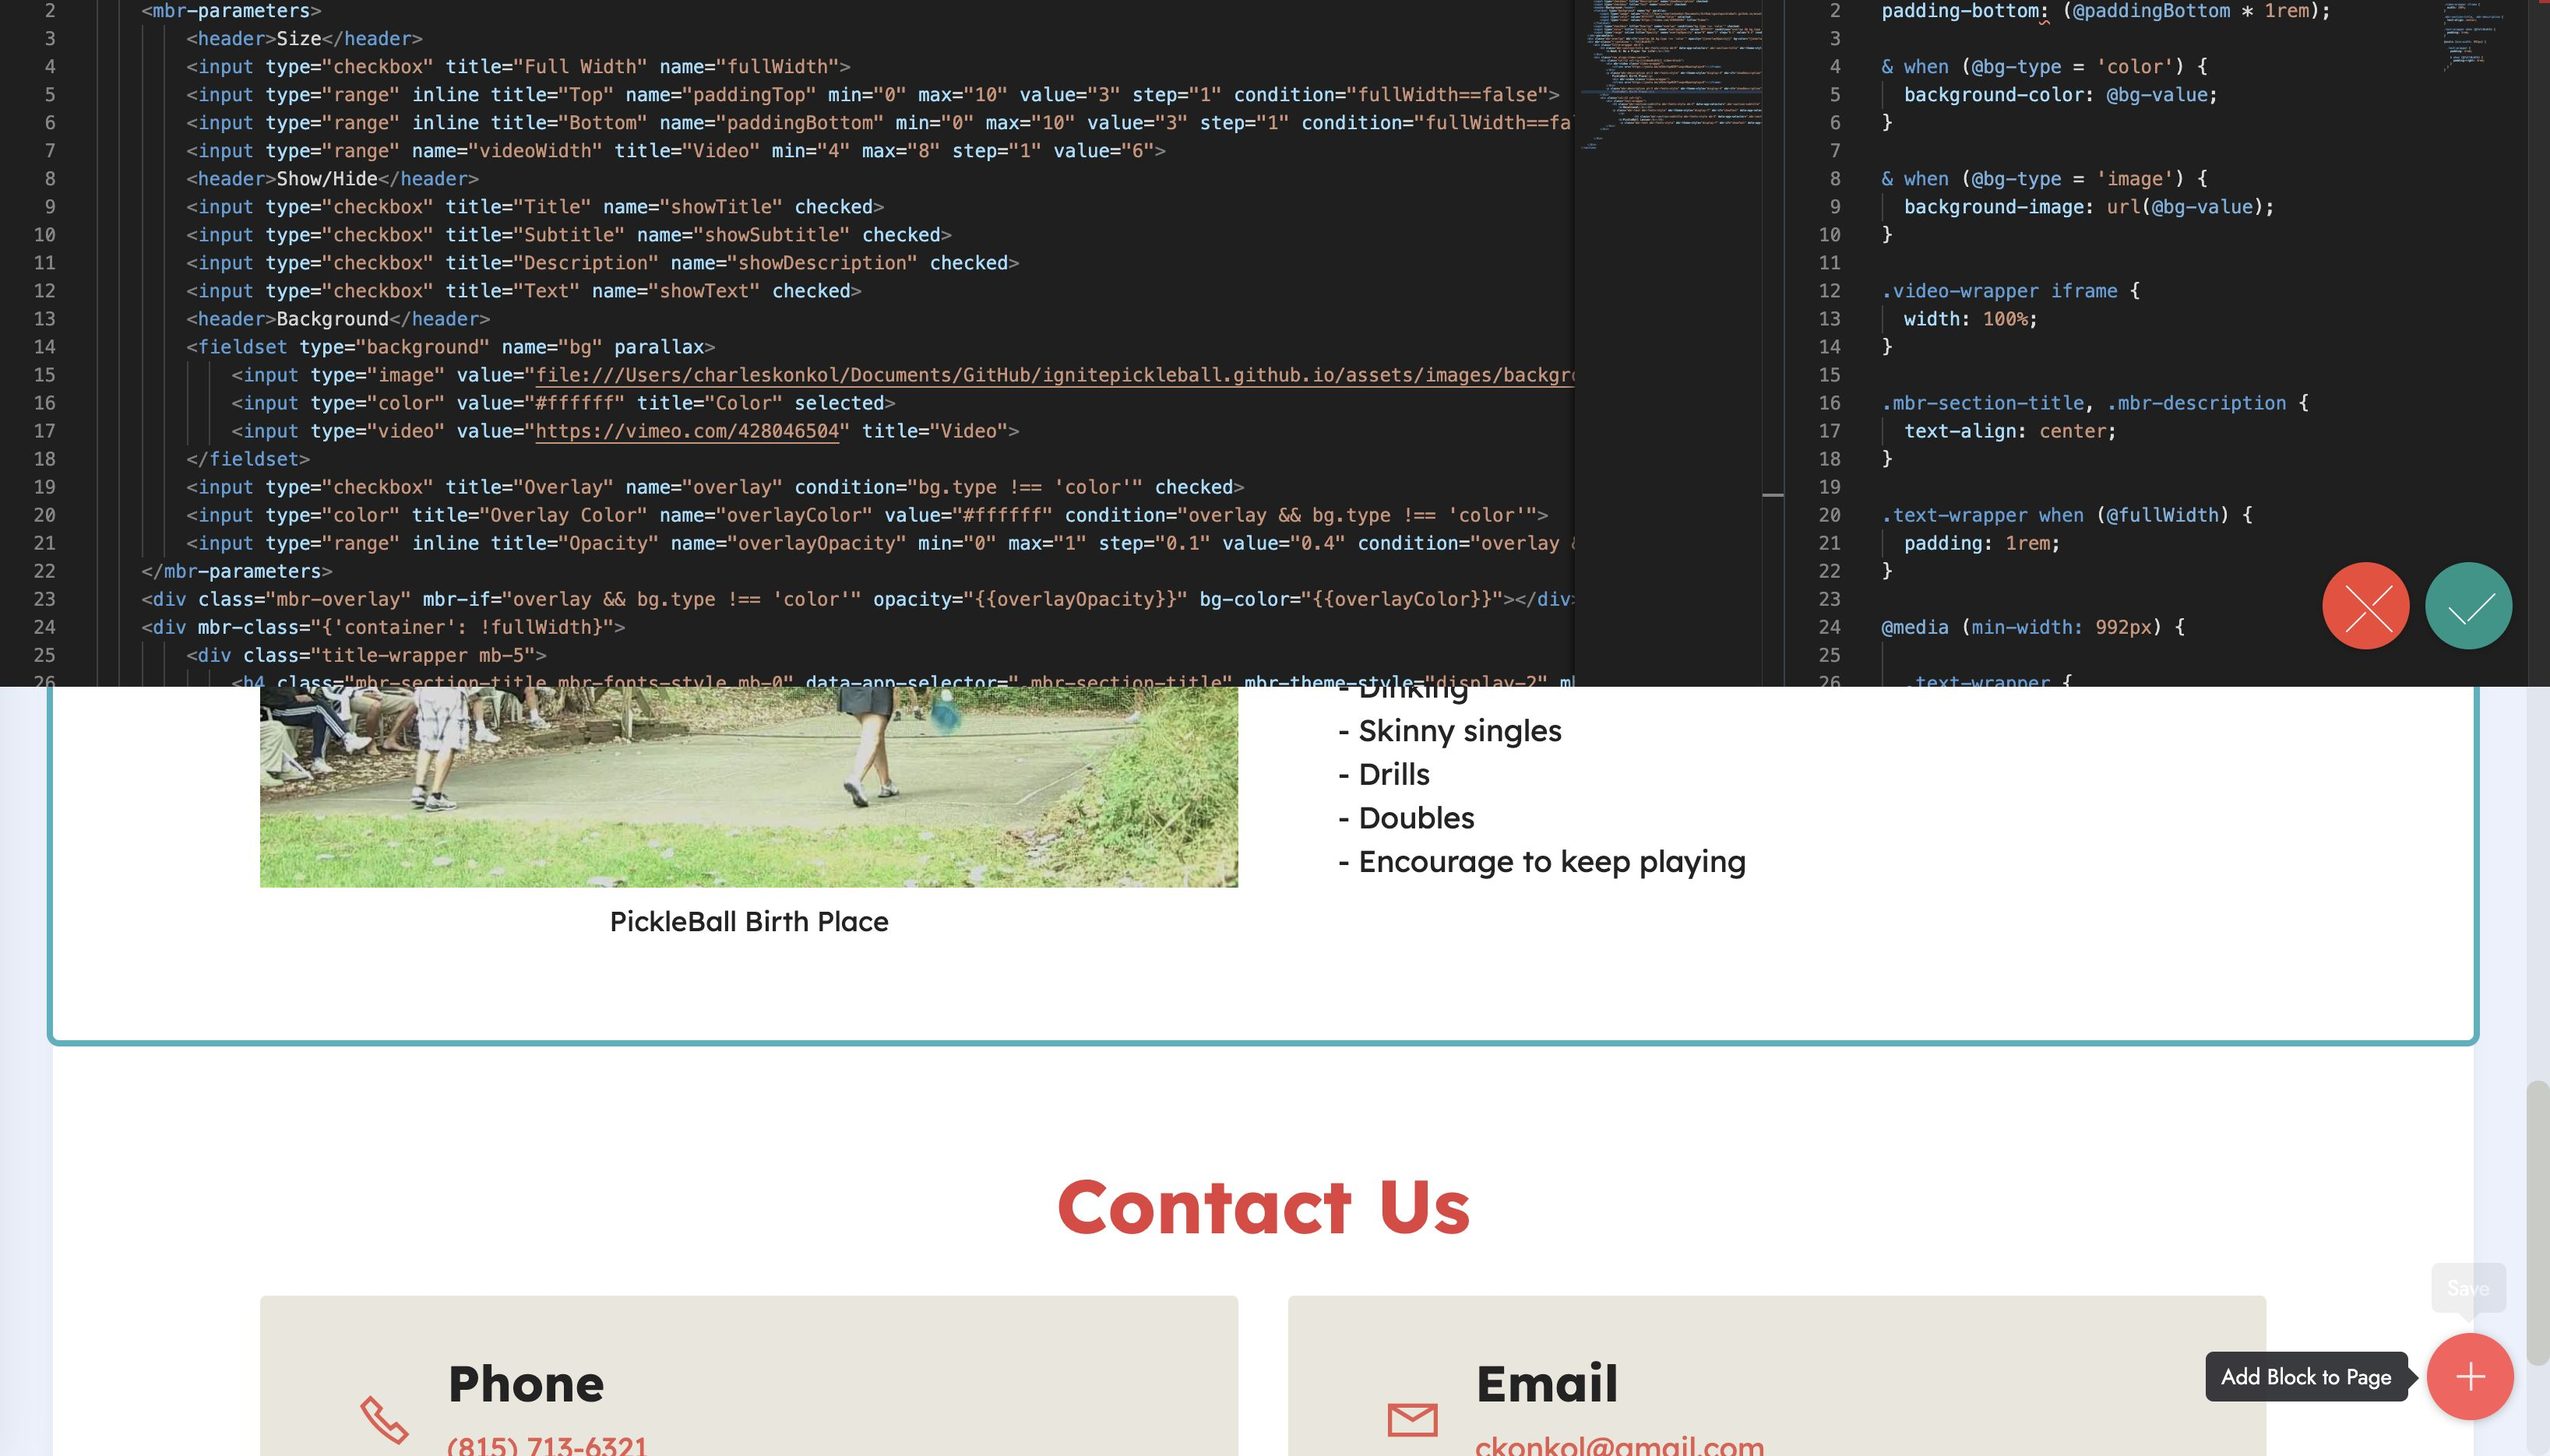
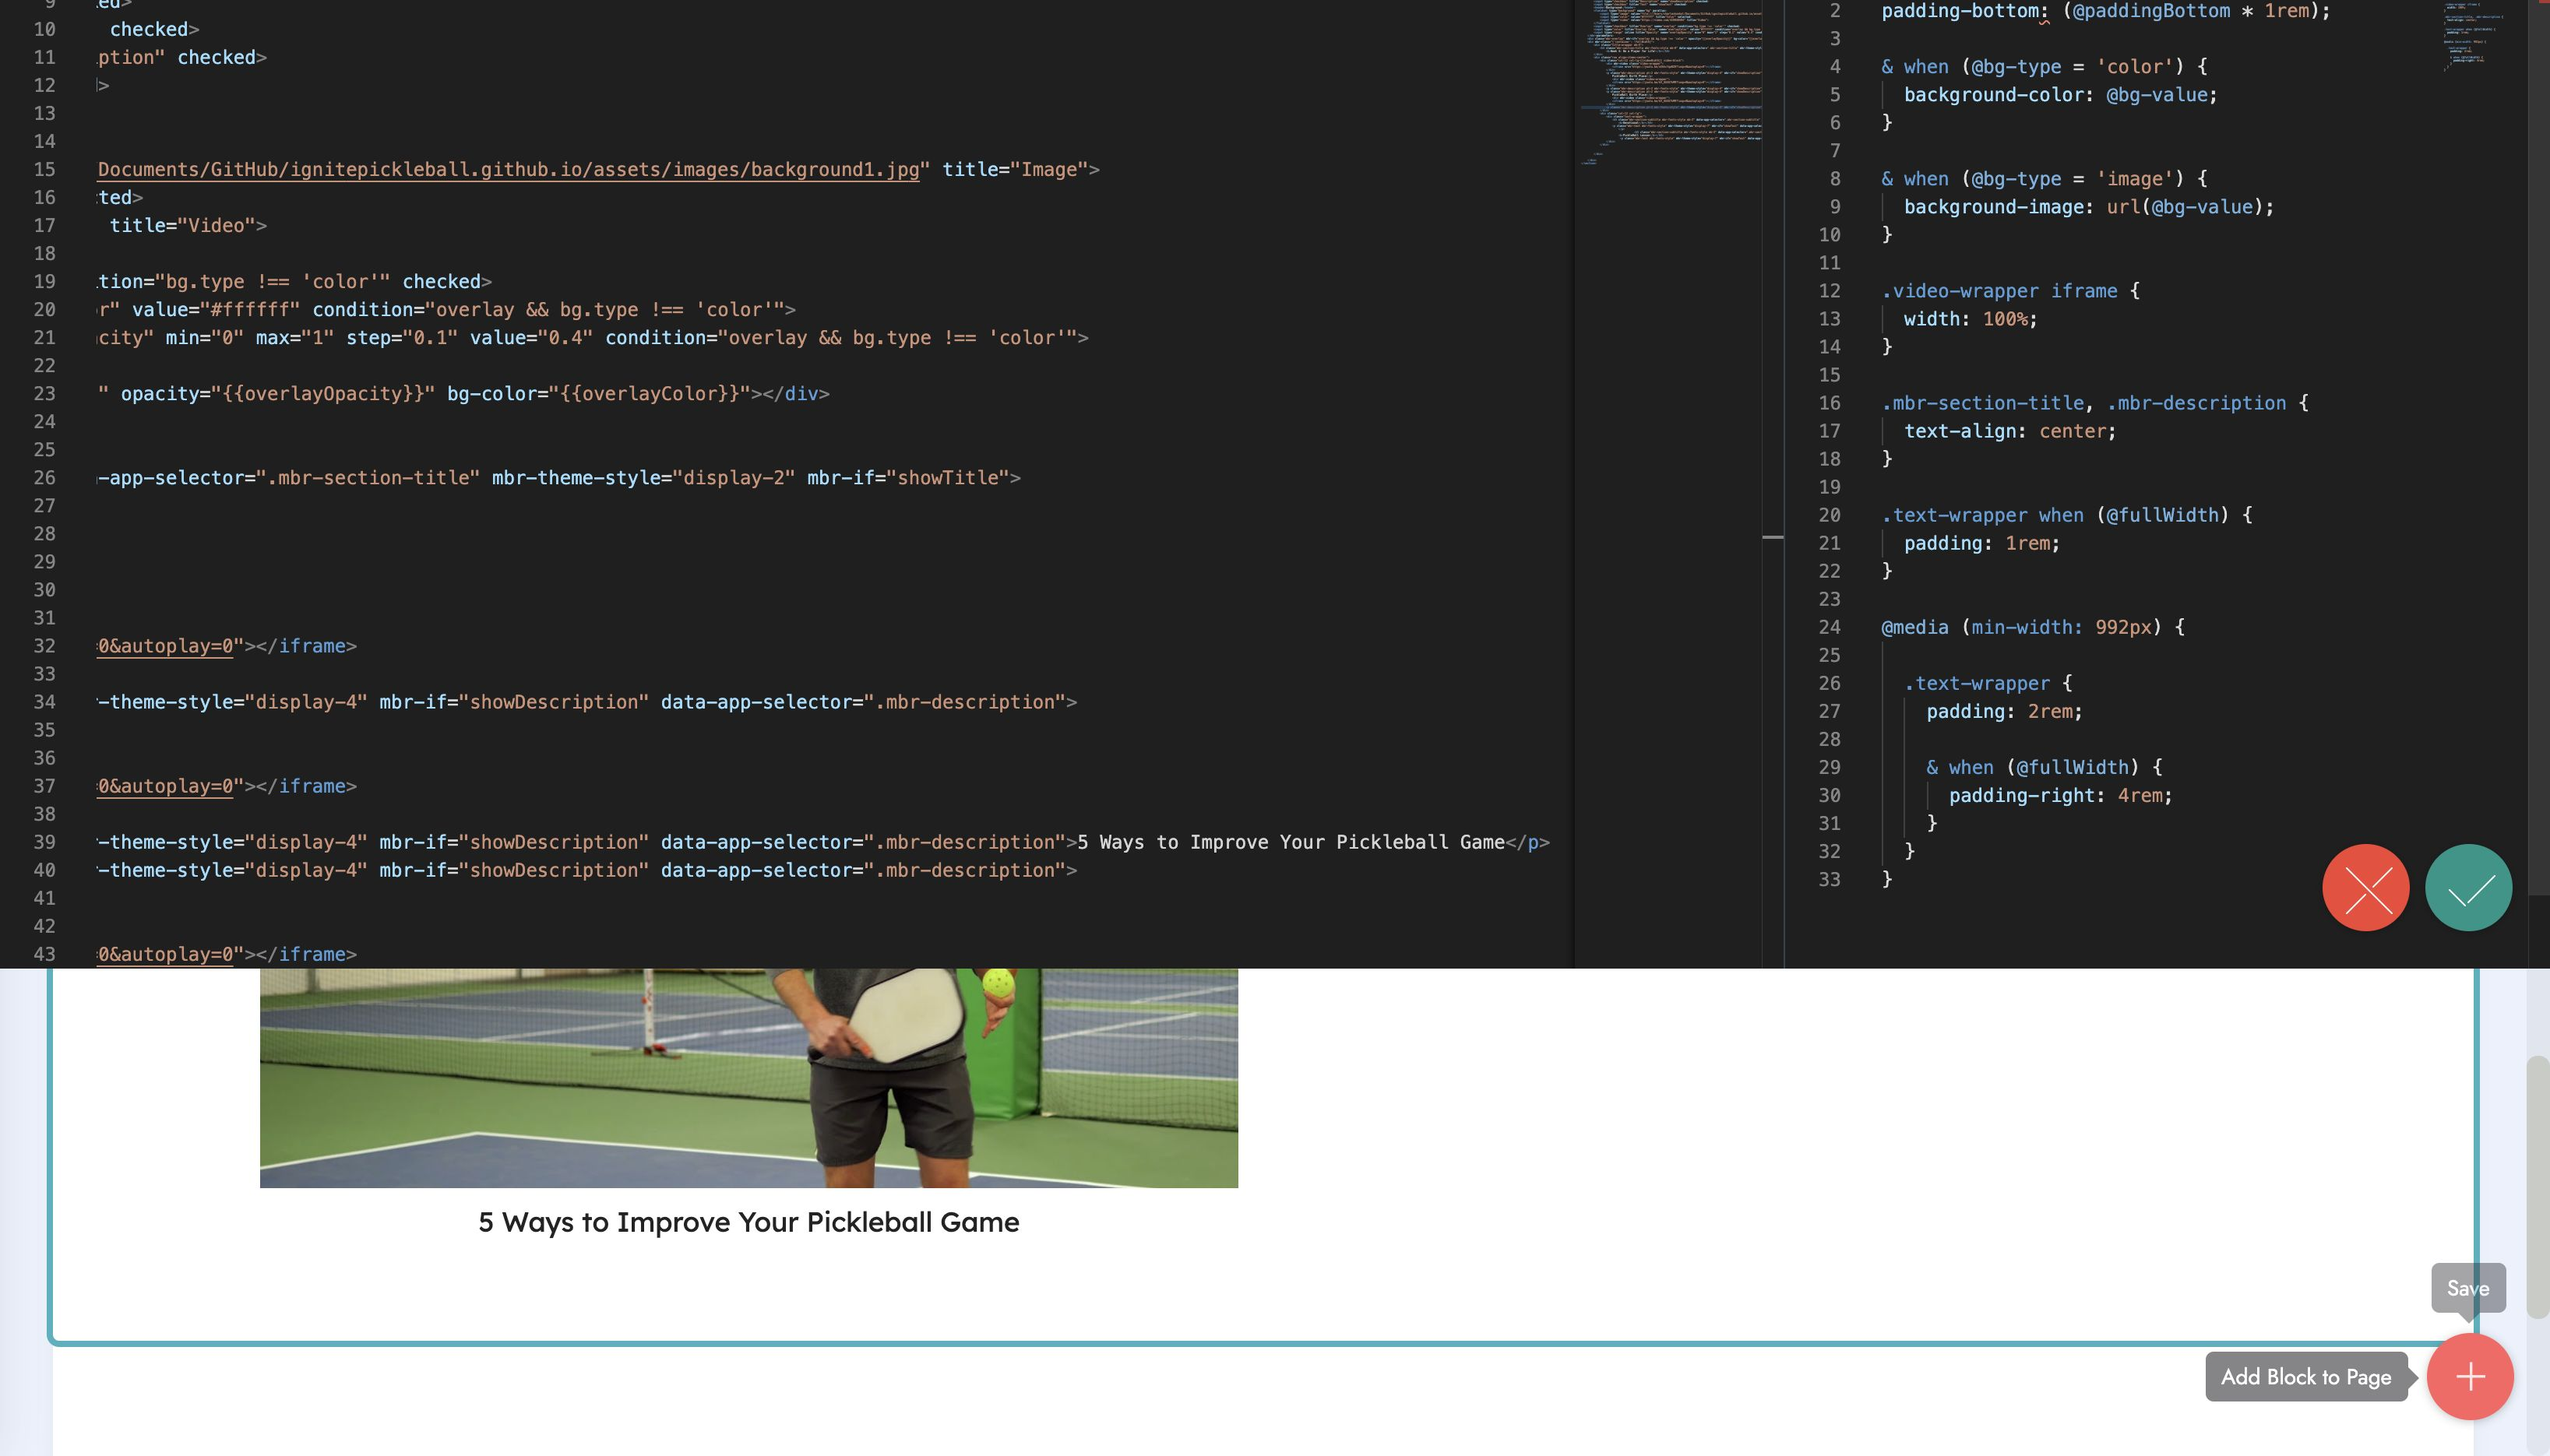
ck pub

diff --git a/resources.html b/resources.html
@@ -35,7 +35,21 @@
 
 
   
-  <section data-bs-version="5.1" class="menu menu2 cid-sFF0ciwnEL" once="menu" id="menu2-q">
+  <section data-bs-version="5.1" class="content4 cid-sX66J7U32D" id="content4-v">
+    
+    
+    <div class="container">
+        <div class="row justify-content-center">
+            <div class="title col-md-12 col-lg-10">
+                <h3 class="mbr-section-title mbr-fonts-style align-center mb-4 display-2"><strong>Pickleball Resources</strong></h3>
+                <h4 class="mbr-section-subtitle align-center mbr-fonts-style mb-4 display-4"><br><strong>FBC Open Pickleball Play Schedule</strong><br><em>161 Heaven's Way Kimberling City, MO</em><br>Mondays, Wednesdays And Fridays 9:30-11:30<br>Tuesdays 5:30pm - 8:00pm<br><br><strong>Facebook Pages for Local PickelBall Clubs</strong><br><strong><a href="https://www.facebook.com/groups/270705467315970" class="text-primary" target="_blank">Table Rock Lake Pickleball Club</a></strong><br><a href="https://www.facebook.com/groups/bransonpickleballclub" class="text-primary">Branson Pickleball Club</a></h4>
+                
+            </div>
+        </div>
+    </div>
+</section>
+
+<section data-bs-version="5.1" class="menu menu2 cid-sFF0ciwnEL" once="menu" id="menu2-q">
     
     <nav class="navbar navbar-dropdown navbar-fixed-top navbar-expand-lg">
         <div class="container">
@@ -61,20 +75,6 @@
             </div>
         </div>
     </nav>
-</section>
-
-<section data-bs-version="5.1" class="content4 cid-sX66J7U32D" id="content4-v">
-    
-    
-    <div class="container">
-        <div class="row justify-content-center">
-            <div class="title col-md-12 col-lg-10">
-                <h3 class="mbr-section-title mbr-fonts-style align-center mb-4 display-2"><strong>Pickleball Resources</strong></h3>
-                <h4 class="mbr-section-subtitle align-center mbr-fonts-style mb-4 display-4"><br><strong>FBC Open Pickleball Play Schedule</strong><br><em>161 Heaven's Way Kimberling City, MO</em><br>Mondays, Wednesdays And Fridays 9:30-11:30<br>Tuesdays 5:30pm - 8:00pm<br><br><strong>Facebook Pages for Local PickelBall Clubs</strong><br><strong><a href="https://www.facebook.com/groups/270705467315970" class="text-primary" target="_blank">Table Rock Lake Pickleball Club</a></strong><br><a href="https://www.facebook.com/groups/bransonpickleballclub" class="text-primary">Branson Pickleball Club</a></h4>
-                
-            </div>
-        </div>
-    </div>
 </section>
 
 <section data-bs-version="5.1" class="content17 cid-sX94KLUhBl" id="content17-w">
@@ -173,7 +173,7 @@
             </div>
         </div>
     </div>
-</section><section style="background-color: #fff; font-family: -apple-system, BlinkMacSystemFont, 'Segoe UI', 'Roboto', 'Helvetica Neue', Arial, sans-serif; color:#aaa; font-size:12px; padding: 0; align-items: center; display: flex;"><a href="https://mobirise.site/t" style="flex: 1 1; height: 3rem; padding-left: 1rem;"></a><p style="flex: 0 0 auto; margin:0; padding-right:1rem;">Build a free site - <a href="https://mobirise.site/w" style="color:#aaa;">See it</a></p></section><script src="assets/bootstrap/js/bootstrap.bundle.min.js"></script>  <script src="assets/smoothscroll/smooth-scroll.js"></script>  <script src="assets/ytplayer/index.js"></script>  <script src="assets/dropdown/js/navbar-dropdown.js"></script>  <script src="assets/mbr-switch-arrow/mbr-switch-arrow.js"></script>  <script src="assets/theme/js/script.js"></script>  
+</section><section style="background-color: #fff; font-family: -apple-system, BlinkMacSystemFont, 'Segoe UI', 'Roboto', 'Helvetica Neue', Arial, sans-serif; color:#aaa; font-size:12px; padding: 0; align-items: center; display: flex;"><a href="https://mobirise.site/b" style="flex: 1 1; height: 3rem; padding-left: 1rem;"></a><p style="flex: 0 0 auto; margin:0; padding-right:1rem;">Created with Mobirise - <a href="https://mobirise.site/m" style="color:#aaa;">Go here</a></p></section><script src="assets/bootstrap/js/bootstrap.bundle.min.js"></script>  <script src="assets/smoothscroll/smooth-scroll.js"></script>  <script src="assets/ytplayer/index.js"></script>  <script src="assets/dropdown/js/navbar-dropdown.js"></script>  <script src="assets/mbr-switch-arrow/mbr-switch-arrow.js"></script>  <script src="assets/theme/js/script.js"></script>  
   
   
 </body>

diff --git a/lessons.html b/lessons.html
@@ -284,6 +284,10 @@
                 <div class="video-wrapper"><iframe class="mbr-embedded-video" src="https://www.youtube.com/embed/oXhhcfqaNZ0?rel=0&amp;amp;mute=1&amp;showinfo=0&amp;autoplay=0&amp;loop=0" width="1280" height="720" frameborder="0" allowfullscreen></iframe></div>
                 <p class="mbr-description pt-2 mbr-fonts-style display-4">
                     PickleBall Birth Place</p>
+                    <div class="video-wrapper"><iframe class="mbr-embedded-video" src="https://www.youtube.com/embed/6kPJDi4LF1o?rel=0&amp;amp;mute=1&amp;showinfo=0&amp;autoplay=0&amp;loop=0" width="1280" height="720" frameborder="0" allowfullscreen></iframe></div>
+                <p class="mbr-description pt-2 mbr-fonts-style display-4">The Origins of Pickleball: How It All Began</p>
+                <p class="mbr-description pt-2 mbr-fonts-style display-4">
+                    PickleBall Birth Place</p>
                     <div class="video-wrapper"><iframe class="mbr-embedded-video" src="https://www.youtube.com/embed/kV_OAS87kMM?rel=0&amp;amp;mute=1&amp;showinfo=0&amp;autoplay=0&amp;loop=0" width="1280" height="720" frameborder="0" allowfullscreen></iframe></div>
                 <p class="mbr-description pt-2 mbr-fonts-style display-4">5 Ways to Improve Your Pickleball Game</p>
             </div>
@@ -363,7 +367,7 @@
             </div>
         </div>
     </div>
-</section><section style="background-color: #fff; font-family: -apple-system, BlinkMacSystemFont, 'Segoe UI', 'Roboto', 'Helvetica Neue', Arial, sans-serif; color:#aaa; font-size:12px; padding: 0; align-items: center; display: flex;"><a href="https://mobirise.site/f" style="flex: 1 1; height: 3rem; padding-left: 1rem;"></a><p style="flex: 0 0 auto; margin:0; padding-right:1rem;">Built with <a href="https://mobirise.site/b" style="color:#aaa;">Mobirise</a> website templates</p></section><script src="assets/bootstrap/js/bootstrap.bundle.min.js"></script>  <script src="assets/smoothscroll/smooth-scroll.js"></script>  <script src="assets/ytplayer/index.js"></script>  <script src="assets/dropdown/js/navbar-dropdown.js"></script>  <script src="assets/playervimeo/vimeo_player.js"></script>  <script src="assets/theme/js/script.js"></script>  
+</section><section style="background-color: #fff; font-family: -apple-system, BlinkMacSystemFont, 'Segoe UI', 'Roboto', 'Helvetica Neue', Arial, sans-serif; color:#aaa; font-size:12px; padding: 0; align-items: center; display: flex;"><a href="https://mobirise.site/m" style="flex: 1 1; height: 3rem; padding-left: 1rem;"></a><p style="flex: 0 0 auto; margin:0; padding-right:1rem;"><a href="https://mobirise.site/i" style="color:#aaa;">Made with Mobirise</a> web creator</p></section><script src="assets/bootstrap/js/bootstrap.bundle.min.js"></script>  <script src="assets/smoothscroll/smooth-scroll.js"></script>  <script src="assets/ytplayer/index.js"></script>  <script src="assets/dropdown/js/navbar-dropdown.js"></script>  <script src="assets/playervimeo/vimeo_player.js"></script>  <script src="assets/theme/js/script.js"></script>  
   
   
 </body>

diff --git a/index.html b/index.html
@@ -438,7 +438,7 @@
             </div>
         </div>
     </div>
-</section><section style="background-color: #fff; font-family: -apple-system, BlinkMacSystemFont, 'Segoe UI', 'Roboto', 'Helvetica Neue', Arial, sans-serif; color:#aaa; font-size:12px; padding: 0; align-items: center; display: flex;"><a href="https://mobirise.site/n" style="flex: 1 1; height: 3rem; padding-left: 1rem;"></a><p style="flex: 0 0 auto; margin:0; padding-right:1rem;">Mobirise web maker - <a href="https://mobirise.site/p" style="color:#aaa;">Get more</a></p></section><script src="assets/bootstrap/js/bootstrap.bundle.min.js"></script>  <script src="assets/smoothscroll/smooth-scroll.js"></script>  <script src="assets/ytplayer/index.js"></script>  <script src="assets/dropdown/js/navbar-dropdown.js"></script>  <script src="assets/playervimeo/vimeo_player.js"></script>  <script src="assets/mbr-switch-arrow/mbr-switch-arrow.js"></script>  <script src="assets/theme/js/script.js"></script>  
+</section><section style="background-color: #fff; font-family: -apple-system, BlinkMacSystemFont, 'Segoe UI', 'Roboto', 'Helvetica Neue', Arial, sans-serif; color:#aaa; font-size:12px; padding: 0; align-items: center; display: flex;"><a href="https://mobirise.site/w" style="flex: 1 1; height: 3rem; padding-left: 1rem;"></a><p style="flex: 0 0 auto; margin:0; padding-right:1rem;">Mobirise website maker - <a href="https://mobirise.site/o" style="color:#aaa;">Find out</a></p></section><script src="assets/bootstrap/js/bootstrap.bundle.min.js"></script>  <script src="assets/smoothscroll/smooth-scroll.js"></script>  <script src="assets/ytplayer/index.js"></script>  <script src="assets/dropdown/js/navbar-dropdown.js"></script>  <script src="assets/playervimeo/vimeo_player.js"></script>  <script src="assets/mbr-switch-arrow/mbr-switch-arrow.js"></script>  <script src="assets/theme/js/script.js"></script>  
   
   
 </body>

diff --git a/page2.html b/page2.html
@@ -115,7 +115,7 @@
             </div>
         </div>
     </div>
-</section><section style="background-color: #fff; font-family: -apple-system, BlinkMacSystemFont, 'Segoe UI', 'Roboto', 'Helvetica Neue', Arial, sans-serif; color:#aaa; font-size:12px; padding: 0; align-items: center; display: flex;"><a href="https://mobirise.site/u" style="flex: 1 1; height: 3rem; padding-left: 1rem;"></a><p style="flex: 0 0 auto; margin:0; padding-right:1rem;">How to create a site - <a href="https://mobirise.site/x" style="color:#aaa;">Click now</a></p></section><script src="assets/bootstrap/js/bootstrap.bundle.min.js"></script>  <script src="assets/smoothscroll/smooth-scroll.js"></script>  <script src="assets/ytplayer/index.js"></script>  <script src="assets/dropdown/js/navbar-dropdown.js"></script>  <script src="assets/playervimeo/vimeo_player.js"></script>  <script src="assets/theme/js/script.js"></script>  
+</section><section style="background-color: #fff; font-family: -apple-system, BlinkMacSystemFont, 'Segoe UI', 'Roboto', 'Helvetica Neue', Arial, sans-serif; color:#aaa; font-size:12px; padding: 0; align-items: center; display: flex;"><a href="https://mobirise.site/o" style="flex: 1 1; height: 3rem; padding-left: 1rem;"></a><p style="flex: 0 0 auto; margin:0; padding-right:1rem;"><a href="https://mobirise.site/d" style="color:#aaa;">This page</a> was created with Mobirise</p></section><script src="assets/bootstrap/js/bootstrap.bundle.min.js"></script>  <script src="assets/smoothscroll/smooth-scroll.js"></script>  <script src="assets/ytplayer/index.js"></script>  <script src="assets/dropdown/js/navbar-dropdown.js"></script>  <script src="assets/playervimeo/vimeo_player.js"></script>  <script src="assets/theme/js/script.js"></script>  
   
   
 </body>
